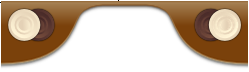
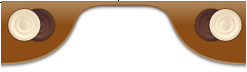
FIX: texture and colors

diff --git a/fourinaline/src/it/alcacoop/fourinaline/actors/BoardImage.java b/fourinaline/src/it/alcacoop/fourinaline/actors/BoardImage.java
@@ -88,13 +88,15 @@ public class BoardImage extends Widget {
       imageX = 0;
     else if ((align & Align.right) != 0)
       imageX = (int)(width - imageWidth);
-    else imageX = (int)(width / 2 - imageWidth / 2);
+    else
+      imageX = (int)(width / 2 - imageWidth / 2);
 
     if ((align & Align.top) != 0)
       imageY = (int)(height - imageHeight);
     else if ((align & Align.bottom) != 0)
       imageY = 0;
-    else imageY = (int)(height / 2 - imageHeight / 2);
+    else
+      imageY = (int)(height / 2 - imageHeight / 2);
 
     if (fbo1 == null) {
       fbo1 = new FrameBuffer(Format.RGBA8888, (int)getWidth(), (int)getHeight(), false);
@@ -142,7 +144,6 @@ public class BoardImage extends Widget {
     Color color = getColor();
     batch.setColor(color.r, color.g, color.b, color.a * parentAlpha);
 
-
     // BG
     if (drawable != null) {
       for (int x = 0; x < nx; x++)
@@ -150,7 +151,7 @@ public class BoardImage extends Widget {
           batch.draw(tile, x * xdim + getX(), y * ydim + getY(), 0, 0, xdim, ydim, 1, 1, 0);
         }
     }
-    batch.setColor(1, 1, 1, 0.6f);
+    batch.setColor(1, 1, 1, 1);
     batch.draw(fbo2.getColorBufferTexture(), getX(), getY());
     batch.setColor(1, 1, 1, 1);
   }

diff --git a/fourinaline/src/it/alcacoop/fourinaline/actors/IconButton.java b/fourinaline/src/it/alcacoop/fourinaline/actors/IconButton.java
@@ -84,7 +84,8 @@ public class IconButton extends Button {
         background = (isOver() && style.checkedOver != null) ? style.checkedOver : style.checked;
       else if (isOver() && style.over != null)
         background = style.over;
-      else background = style.up;
+      else
+        background = style.up;
     }
 
     if (background != null) {
@@ -94,7 +95,7 @@ public class IconButton extends Button {
     }
 
     // HERE TEXTURE!
-    batch.setColor(1, 1, 1, 0.45f);
+    batch.setColor(1, 1, 1, 0.25f);
     batch.draw(reg, 0 + getX(), 0 + getY(), getWidth(), getHeight());
     batch.setColor(1, 1, 1, 1);
     drawChildren(batch, parentAlpha);
@@ -111,7 +112,8 @@ public class IconButton extends Button {
       fontColor = (isOver() && style.checkedOverFontColor != null) ? style.checkedOverFontColor : style.checkedFontColor;
     else if (isOver() && style.overFontColor != null)
       fontColor = style.overFontColor;
-    else fontColor = style.fontColor;
+    else
+      fontColor = style.fontColor;
     if (fontColor != null)
       label.getStyle().fontColor = fontColor;
     baseDraw(batch, parentAlpha);

diff --git a/fourinaline/src/it/alcacoop/fourinaline/FourInALine.java b/fourinaline/src/it/alcacoop/fourinaline/FourInALine.java
@@ -55,11 +55,13 @@ public class FourInALine extends Game implements ApplicationListener {
       ss = 2;
     else if (pWidth <= 800)
       ss = 1;
-    else ss = 0;
+    else
+      ss = 0;
     resolution = resolutions[ss];
     atlas = new TextureAtlas(Gdx.files.internal(resname[ss] + "/pack.atlas"));
     skin = new Skin(Gdx.files.internal(resname[ss] + "/myskin.json"));
     font = new BitmapFont(Gdx.files.internal(resname[ss] + "/checker.fnt"), false);
+
     wood = new Texture(Gdx.files.internal(resname[ss] + "/texture.jpg"));
     mask = new Texture(Gdx.files.internal(resname[ss] + "/mask.png"));
     btntxt = new Texture(Gdx.files.internal(resname[ss] + "/btn_texture.jpg"));
@@ -93,7 +95,8 @@ public class FourInALine extends Game implements ApplicationListener {
         }
       };
       transitionTimer.schedule(task, (long)(currentScreen.animationTime * 1000));
-    } else super.setScreen(screen);
+    } else
+      super.setScreen(screen);
     currentScreen = (BaseScreen)screen;
   }
 

diff --git a/fourinaline/src/it/alcacoop/fourinaline/actors/Checker.java b/fourinaline/src/it/alcacoop/fourinaline/actors/Checker.java
@@ -61,7 +61,7 @@ public class Checker extends Actor implements Poolable {
     else
       batch.draw(r2, getX(), getY(), 0, 0, getWidth(), getHeight(), 1, 1, 0);
 
-    batch.setColor(1, 1, 1, 0.4f);
+    batch.setColor(1, 1, 1, 0.25f);
     batch.draw(reg, getX(), getY(), 0, 0, getWidth(), getHeight(), 1, 1, 0);
 
     batch.setColor(c.r, c.g, c.b, c.a * parentAlpha);
